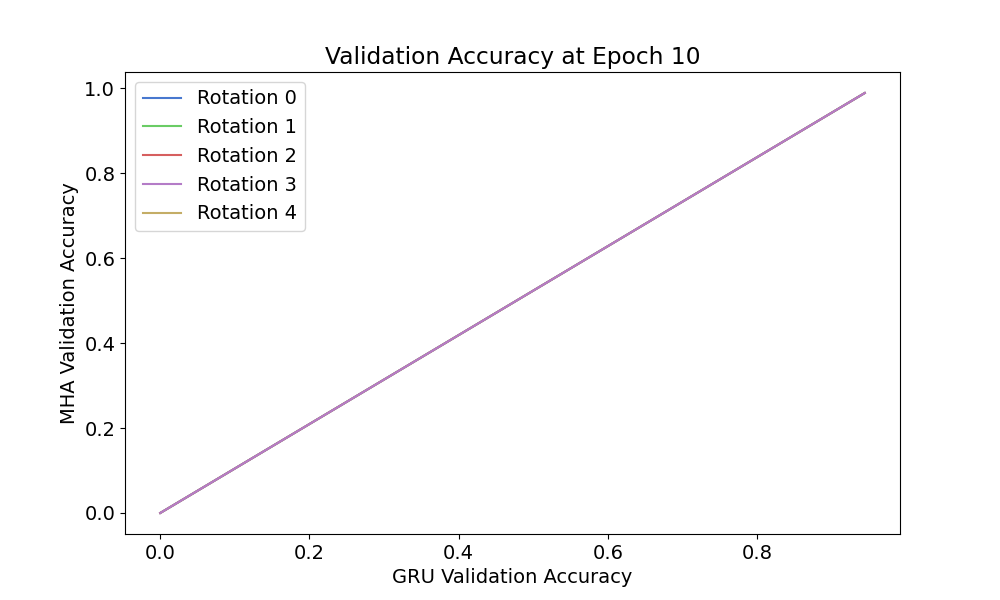
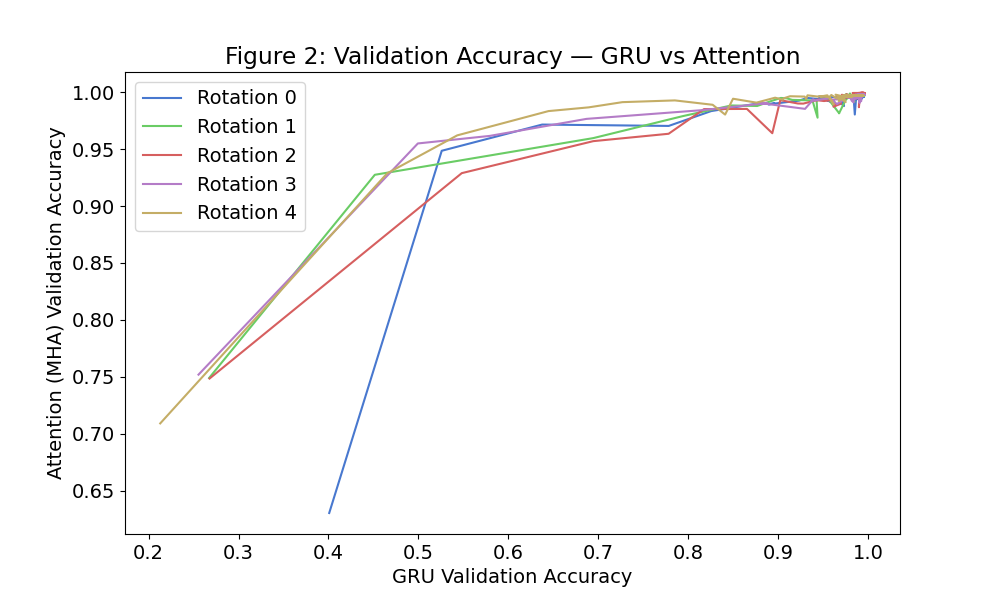
plot figs

diff --git a/code/plot.py b/code/plot.py
@@ -64,35 +64,39 @@ def load_results(results_dir):
 #          Plotting Functions         #
 #######################################
 
-def plot_accuracy_at_epoch(gru_results, mha_results, epoch, filename="figures/accuracy_at_epoch.png"):
+# Figure 2
+def plot_accuracy_curves(gru_results, mha_results, filename="figures/accuracy_vs_accuracy.png"):
     """
-        Plot the accuracy at a specific epoch for GRU and MHA models.
-    
-        :param gru_results: List of dictionaries containing GRU model results
-        :param mha_results: List of dictionaries containing MHA model results
-        :param epoch: The epoch number to plot
-        :param filename: Filename to save the plot
+    Plot validation accuracy curves: GRU vs MHA model per rotation.
     """
-    # Extract accuracies for the specified epoch
     nb_rotation = len(gru_results)
-    gru_val_acc = np.zeros(nb_rotation)
-    mha_val_acc = np.zeros(nb_rotation)
 
     plt.figure()
-    
+
     for i in range(nb_rotation):
-        gru_val_acc[i] = gru_results[0]['history']['val_sparse_categorical_accuracy'][epoch]
-        mha_val_acc[i] = mha_results[0]['history']['val_sparse_categorical_accuracy'][epoch]
-        plt.plot(gru_val_acc, mha_val_acc, label=f"Rotation {i}")
-        
+        gru_acc = gru_results[i]['history']['val_sparse_categorical_accuracy']
+        mha_acc = mha_results[i]['history']['val_sparse_categorical_accuracy']
+
+        # Pad the shorter sequence with its final value
+        max_len = max(len(gru_acc), len(mha_acc))
+        if len(gru_acc) < max_len:
+            gru_acc += [gru_acc[-1]] * (max_len - len(gru_acc))
+        if len(mha_acc) < max_len:
+            mha_acc += [mha_acc[-1]] * (max_len - len(mha_acc))
+
+        plt.plot(gru_acc, mha_acc, label=f"Rotation {i}")
+
     plt.xlabel("GRU Validation Accuracy")
-    plt.ylabel("MHA Validation Accuracy")
-    plt.title(f"Validation Accuracy at Epoch {epoch}")
+    plt.ylabel("Attention Validation Accuracy")
+    plt.title("Validation Accuracy GRU vs Attention")
     plt.legend()
     plt.savefig(filename)
 
 # Figure 3
 def plot_accuracy_bars(rnn_results, gru_results, mha_results, filename="figures/accuracy_bar.png"):
+    """
+    Plot models accuracy bars
+    """
     gru_test_accuracies = [r['predict_testing_eval'][1] for r in gru_results]
     mha_test_accuracies = [r['predict_testing_eval'][1] for r in mha_results]
     rnn_test_accuracies = [r['predict_testing_eval'][1] for r in rnn_results]
@@ -179,7 +183,7 @@ if __name__ == "__main__":
     class_names = [str(i) for i in range(num_classes)]
     rnn_dir = "./models/rnn_0/"
     gru_dir = "./models/gru_0/"
-    mha_dir = "./models/mha_0/"
+    mha_dir = "./models/mha_1/"
 
     #######################
     #     Load Results    #
@@ -219,12 +223,12 @@ if __name__ == "__main__":
     print("Plotting results...")
 
     # Figure 2
-    plot_accuracy_at_epoch(gru_results, mha_results, epoch=10, filename="figures/figure_2.png")
+    plot_accuracy_curves(gru_results, mha_results, filename="figures/figure_2.png")
     
-    # Figure3
-    # plot_accuracy_bars(rnn_results, gru_results, mha_results, filename="figures/figure_3.png")
+    # Figure 3
+    plot_accuracy_bars(rnn_results, gru_results, mha_results, filename="figures/figure_3.png")
     
     # Figure 4
-    # plot_combined_confusion_matrix(args=args, models=mha_models, class_names=class_names, title="Contingency Table across Folds", filename="figures/figure_4.png", num_classes=num_classes)
+    plot_combined_confusion_matrix(args=args, models=mha_models, class_names=class_names, title="Contingency Table across Folds", filename="figures/figure_4.png", num_classes=num_classes)
     
     print("Done")
